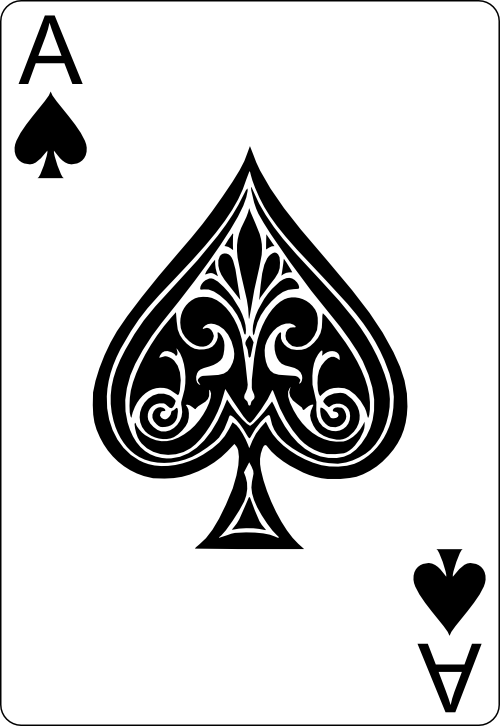
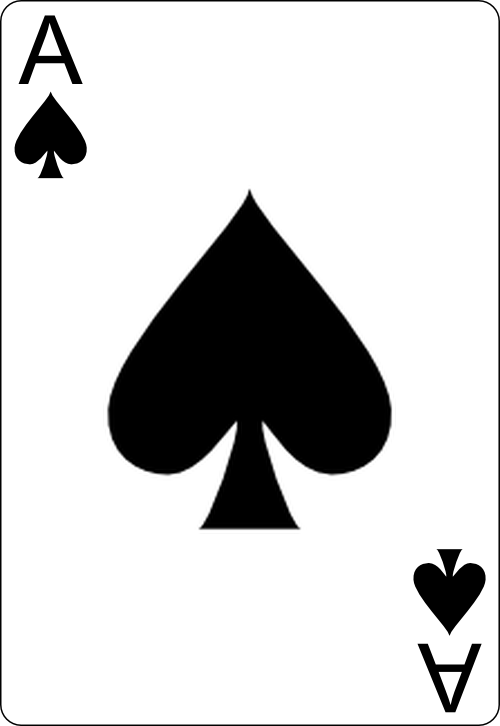
fix(green-oaks-bot): replace third-party ornate spade on the Ace of Spades
The ornate centre spade on ace_of_spades.png is attributed to another
artist with no public-domain statement. Replace it with a plain spade pip
taken from 2_of_spades.png (Byron Knoll), scaled with LANCZOS to the
centre pip size of the other aces and centred where theirs are. The frame
and corner indices are kept. tools/make_plain_ace_of_spades.py rebuilds the
file deterministically.

ATTRIBUTION.md quotes Knoll's public-domain statement with its source and
records the replacement. Tests check the committed PNG matches the script,
the ornate art is gone (one dark blob in the centre), the pip matches the
other aces, and all 40 deck assets are 500x726 RGBA.

Changed region(s): [[0.18, 0.2121, 0.84, 0.7576]]

diff --git a/tools/make_plain_ace_of_spades.py b/tools/make_plain_ace_of_spades.py
@@ -1,0 +1,155 @@
+# SPDX-FileCopyrightText: 2026 K. Chen
+# SPDX-License-Identifier: AGPL-3.0-or-later
+"""Replace the ornate centre of assets/cards/ace_of_spades.png with a plain spade pip.
+
+The frame and corner indices of the card are kept (Byron Knoll, public domain). The ornate
+centre spade is attributed to another artist without a public-domain statement, so it is removed:
+
+1. Measure the centre pip of ace_of_hearts.png and ace_of_clubs.png (ink bounding boxes).
+2. Measure the upright spade pip at the top of 2_of_spades.png (also Knoll).
+3. Fill the old centre region with the card's background colour, sampled from the card.
+4. Scale the 2_of_spades pip with LANCZOS to the mean height of the reference pips and paste it
+   centred on the mean reference centre.
+
+The output is deterministic and idempotent: running it again on its own output gives the same
+bytes, because the fill region covers the whole new pip. The original ornate art is still in git
+history if it is ever needed again.
+
+Usage: python tools/make_plain_ace_of_spades.py
+"""
+
+from __future__ import annotations
+
+from collections import Counter
+from pathlib import Path
+
+from PIL import Image
+
+REPO = Path(__file__).resolve().parents[1]
+ASSETS = REPO / "assets" / "cards"
+CARD_SIZE = (500, 726)
+
+# Window holding the centre pip of the plain aces, clear of both corner indices.
+CENTRE_WINDOW = (100, 120, 400, 600)
+# Window holding the upright (top) spade pip on 2_of_spades; the lower pip is excluded.
+SOURCE_PIP_WINDOW = (100, 60, 400, 300)
+# Fill region for the ornate spade: wide enough to cover it, clear of both corner indices.
+FILL_BOX = (92, 130, 408, 560)  # inclusive
+# Corner index regions that must not overlap the fill region.
+TOP_LEFT_INDEX = (0, 0, 120, 200)
+BOTTOM_RIGHT_INDEX = (380, 520, 499, 725)
+PIP_PADDING = 2
+INK_THRESHOLD = 128  # a pixel with min(R, G, B) below this counts as pip ink
+
+
+def ink_box(im: Image.Image, window: tuple[int, int, int, int]) -> tuple[int, int, int, int]:
+    """Inclusive bounding box of opaque, visibly dark pixels inside `window` (x0, y0, x1, y1)."""
+    px = im.load()
+    x0, y0, x1, y1 = window
+    xs: list[int] = []
+    ys: list[int] = []
+    for y in range(y0, y1):
+        for x in range(x0, x1):
+            r, g, b, a = px[x, y]
+            if a > 0 and min(r, g, b) < INK_THRESHOLD:
+                xs.append(x)
+                ys.append(y)
+    if not xs:
+        raise ValueError(f"no pip ink in window {window}")
+    return min(xs), min(ys), max(xs), max(ys)
+
+
+def pip_box(im: Image.Image) -> tuple[int, int, int, int]:
+    """Inclusive bounding box of the centre pip on a plain ace."""
+    return ink_box(im, CENTRE_WINDOW)
+
+
+def pip_colour(im: Image.Image) -> tuple[int, int, int]:
+    """Most common colour among the solid ink pixels of a pip."""
+    px = im.load()
+    counts: Counter[tuple[int, int, int]] = Counter(
+        px[x, y][:3] for x in range(im.width) for y in range(im.height)
+        if px[x, y][3] == 255 and max(px[x, y][:3]) < INK_THRESHOLD
+    )
+    colour, _ = max(counts.items(), key=lambda item: (item[1], item[0]))
+    return colour
+
+
+def ink_only(im: Image.Image, colour: tuple[int, int, int]) -> Image.Image:
+    """Turn a white-background pip into a transparent overlay: alpha is how much ink each pixel has."""
+    ink = im.convert("L").point(lambda v: 255 - v)
+    alpha = ink
+    out = Image.new("RGBA", im.size, colour + (0,))
+    out.putalpha(alpha)
+    return out
+
+
+def background_colour(im: Image.Image) -> tuple[int, int, int, int]:
+    """Most common opaque colour in a strip of the card's plain background, above the pip."""
+    px = im.load()
+    counts: Counter[tuple[int, int, int, int]] = Counter(
+        px[x, y] for x in range(150, 351) for y in range(40, 101) if px[x, y][3] == 255
+    )
+    colour, _ = max(counts.items(), key=lambda item: (item[1], item[0]))
+    return colour
+
+
+def assert_fill_clear_of_indices(im: Image.Image) -> None:
+    """The fill region must not touch the corner indices, which are kept as they are."""
+    for corner in (TOP_LEFT_INDEX, BOTTOM_RIGHT_INDEX):
+        cx0, cy0, cx1, cy1 = corner
+        px = im.load()
+        for y in range(cy0, cy1 + 1):
+            for x in range(cx0, cx1 + 1):
+                r, g, b, a = px[x, y]
+                in_fill = FILL_BOX[0] <= x <= FILL_BOX[2] and FILL_BOX[1] <= y <= FILL_BOX[3]
+                if a > 0 and min(r, g, b) < INK_THRESHOLD and in_fill:
+                    raise ValueError(f"corner index ink at {(x, y)} inside fill region")
+
+
+def build(assets: Path, out: Path) -> None:
+    """Write the plain-centre Ace of Spades to `out`, reading the other cards from `assets`."""
+    hearts = Image.open(assets / "ace_of_hearts.png").convert("RGBA")
+    clubs = Image.open(assets / "ace_of_clubs.png").convert("RGBA")
+    two = Image.open(assets / "2_of_spades.png").convert("RGBA")
+    original = Image.open(assets / "ace_of_spades.png").convert("RGBA")
+    for im in (hearts, clubs, two, original):
+        if im.size != CARD_SIZE:
+            raise ValueError(f"expected {CARD_SIZE}, got {im.size}")
+
+    # Target geometry: mean height and mean centre of the reference centre pips.
+    refs = [ink_box(hearts, CENTRE_WINDOW), ink_box(clubs, CENTRE_WINDOW)]
+    target_h = sum(y1 - y0 + 1 for _, y0, _, y1 in refs) / len(refs)
+    centre_x = sum((x0 + x1) / 2 for x0, _, x1, _ in refs) / len(refs)
+    centre_y = sum((y0 + y1) / 2 for _, y0, _, y1 in refs) / len(refs)
+
+    # Source pip, padded so that anti-aliased edges survive the crop.
+    sx0, sy0, sx1, sy1 = ink_box(two, SOURCE_PIP_WINDOW)
+    crop = two.crop((sx0 - PIP_PADDING, sy0 - PIP_PADDING, sx1 + PIP_PADDING + 1, sy1 + PIP_PADDING + 1))
+    scale = target_h / (sy1 - sy0 + 1)
+    new_size = (round(crop.width * scale), round(target_h + 2 * PIP_PADDING * scale))
+    pip = ink_only(crop.resize(new_size, Image.Resampling.LANCZOS), pip_colour(crop))
+
+    # Remove the ornate art by filling its region with the sampled background colour.
+    assert_fill_clear_of_indices(original)
+    result = original.copy()
+    fx0, fy0, fx1, fy1 = FILL_BOX
+    background = background_colour(original)
+    result.paste(background, (fx0, fy0, fx1 + 1, fy1 + 1))
+
+    # Paste the plain pip centred where the other aces' pips are.
+    left = round(centre_x - new_size[0] / 2)
+    top = round(centre_y - new_size[1] / 2)
+    overlay = Image.new("RGBA", result.size, (0, 0, 0, 0))
+    overlay.paste(pip, (left, top))
+    result = Image.alpha_composite(result, overlay)
+
+    result.save(out, format="PNG")
+
+
+def main() -> None:
+    build(ASSETS, ASSETS / "ace_of_spades.png")
+
+
+if __name__ == "__main__":
+    main()

diff --git a/tests/test_plain_ace_of_spades.py b/tests/test_plain_ace_of_spades.py
@@ -1,0 +1,115 @@
+"""AC11.5 (art): the Ace of Spades carries a plain centre pip, not the third-party ornate spade.
+
+The asset is produced by tools/make_plain_ace_of_spades.py. These tests check the committed PNG
+is exactly what the script produces, that no ornate artwork remains, that the new pip matches the
+centre pip of the other plain aces, and that every deck asset is still 500x726 RGBA.
+"""
+
+from __future__ import annotations
+
+import importlib.util
+from pathlib import Path
+
+from PIL import Image
+
+from green_oaks_bot.deck import FULL_DECK
+from green_oaks_bot.render import image_filename
+
+REPO = Path(__file__).resolve().parents[1]
+ASSETS = REPO / "assets" / "cards"
+SCRIPT = REPO / "tools" / "make_plain_ace_of_spades.py"
+CARD_SIZE = (500, 726)
+
+
+def load_script():
+    spec = importlib.util.spec_from_file_location("make_plain_ace_of_spades", SCRIPT)
+    assert spec is not None and spec.loader is not None
+    module = importlib.util.module_from_spec(spec)
+    spec.loader.exec_module(module)
+    return module
+
+
+CENTRE_WINDOW = (100, 120, 400, 600)  # clear of both corner indices and the card edge
+
+
+def test_committed_ace_of_spades_is_byte_identical_to_script_output(tmp_path: Path) -> None:
+    script = load_script()
+    out = tmp_path / "ace_of_spades.png"
+    script.build(ASSETS, out)
+    assert out.read_bytes() == (ASSETS / "ace_of_spades.png").read_bytes()
+
+
+def test_script_is_deterministic(tmp_path: Path) -> None:
+    script = load_script()
+    first, second = tmp_path / "a.png", tmp_path / "b.png"
+    script.build(ASSETS, first)
+    script.build(ASSETS, second)
+    assert first.read_bytes() == second.read_bytes()
+
+
+def test_ace_of_spades_is_card_sized_rgba() -> None:
+    im = Image.open(ASSETS / "ace_of_spades.png")
+    assert im.format == "PNG"
+    assert im.size == CARD_SIZE
+    assert im.mode == "RGBA"
+
+
+def dark_components(im: Image.Image, box: tuple[int, int, int, int]) -> int:
+    """Number of separate dark blobs (4-connected) inside `box`."""
+    px = im.convert("RGBA").load()
+    x0, y0, x1, y1 = box
+    dark = {
+        (x, y)
+        for y in range(y0, y1)
+        for x in range(x0, x1)
+        if px[x, y][3] > 0 and min(px[x, y][:3]) < 128
+    }
+    blobs = 0
+    while dark:
+        blobs += 1
+        stack = [dark.pop()]
+        while stack:
+            x, y = stack.pop()
+            for nb in ((x + 1, y), (x - 1, y), (x, y + 1), (x, y - 1)):
+                if nb in dark:
+                    dark.remove(nb)
+                    stack.append(nb)
+    return blobs
+
+
+def test_ornate_centre_is_gone() -> None:
+    # The ornate spade is hundreds of separate filigree strokes; a plain spade is one solid blob.
+    im = Image.open(ASSETS / "ace_of_spades.png")
+    assert dark_components(im, CENTRE_WINDOW) == 1
+
+
+def test_new_pip_matches_other_aces_centre_pip() -> None:
+    script = load_script()
+    reference = []
+    for name in ("ace_of_hearts.png", "ace_of_clubs.png"):
+        im = Image.open(ASSETS / name).convert("RGBA")
+        box = script.pip_box(im)
+        assert box is not None
+        reference.append(box)
+    ref_h = sum(y1 - y0 + 1 for _, y0, _, y1 in reference) / len(reference)
+    im = Image.open(ASSETS / "ace_of_spades.png").convert("RGBA")
+    pip = script.pip_box(im)
+    assert pip is not None
+    height = pip[3] - pip[1] + 1
+    assert abs(height - ref_h) <= 0.05 * ref_h
+    cx = (pip[0] + pip[2]) / 2
+    cy = (pip[1] + pip[3]) / 2
+    ref_cx = sum((x0 + x1) / 2 for x0, _, x1, _ in reference) / len(reference)
+    ref_cy = sum((y0 + y1) / 2 for _, y0, _, y1 in reference) / len(reference)
+    assert abs(cx - ref_cx) <= 6
+    assert abs(cy - ref_cy) <= 6
+
+
+def test_every_deck_asset_is_500x726_rgba() -> None:
+    # Replaces a pinned total-bytes check: per-file dimensions and mode are what the renderer needs.
+    names = sorted({image_filename(card) for card in FULL_DECK})
+    assert len(names) == 40
+    for name in names:
+        im = Image.open(ASSETS / name)
+        assert im.size == CARD_SIZE, name
+        assert im.mode == "RGBA", name

diff --git a/assets/cards/ATTRIBUTION.md b/assets/cards/ATTRIBUTION.md
@@ -1,14 +1,38 @@
 # Card image attribution
 
-The card images in this directory were taken from https://code.google.com/archive/p/vector-playing-cards/
+## Source and author
 
-They were copied from CapersBot (https://github.com/tznkai/CapersBot, `cardimages/`), which used the same source.
+The card images in this directory are the work of Byron Knoll, from the vector-playing-cards
+project, and were taken from https://code.google.com/archive/p/vector-playing-cards/ (Google Code
+Archive).
 
-Selection used by Green Oaks Bot (40 cards: A, 2–7, J, Q, K in four suits):
+Byron Knoll's public-domain statement, as given on that project:
+
+> "These images are released into the public domain - attribution is appreciated but not required."
+
+They were copied from CapersBot (https://github.com/tznkai/CapersBot, `cardimages/`), which used the
+same source.
+
+## Exception: `ace_of_spades.png`
+
+The centre of `ace_of_spades.png` has been replaced. The original ornate centre spade is attributed
+to another artist and carries no public-domain statement, so it is not covered by Byron Knoll's
+statement above. It has been removed.
+
+The replacement centre is a plain spade pip taken from `2_of_spades.png` (also Byron Knoll's work),
+scaled with LANCZOS to the size of the centre pip on `ace_of_hearts.png` and `ace_of_clubs.png`, and
+centred where their pips are. The card frame and corner indices are the original Byron Knoll artwork.
+
+The change is made by `tools/make_plain_ace_of_spades.py`, which is deterministic and rebuilds the
+file from the other card images in this directory.
+
+## Selection used by Green Oaks Bot
+
+40 cards: A, 2–7, J, Q, K in four suits.
 
 - Aces: `ace_of_<suit>.png` (the plain `ace_of_spades.png`, not `ace_of_spades2.png`)
 - 2–7: `<n>_of_<suit>.png`
 - Jacks: `jack_of_<suit>.png` (plain art)
 - Queens and Kings: `queen_of_<suit>2.png`, `king_of_<suit>2.png` (alternate art)
 
-This matches the files CapersBot actually loads.
+This matches the files CapersBot actually loads. Every image is 500×726 RGBA.
